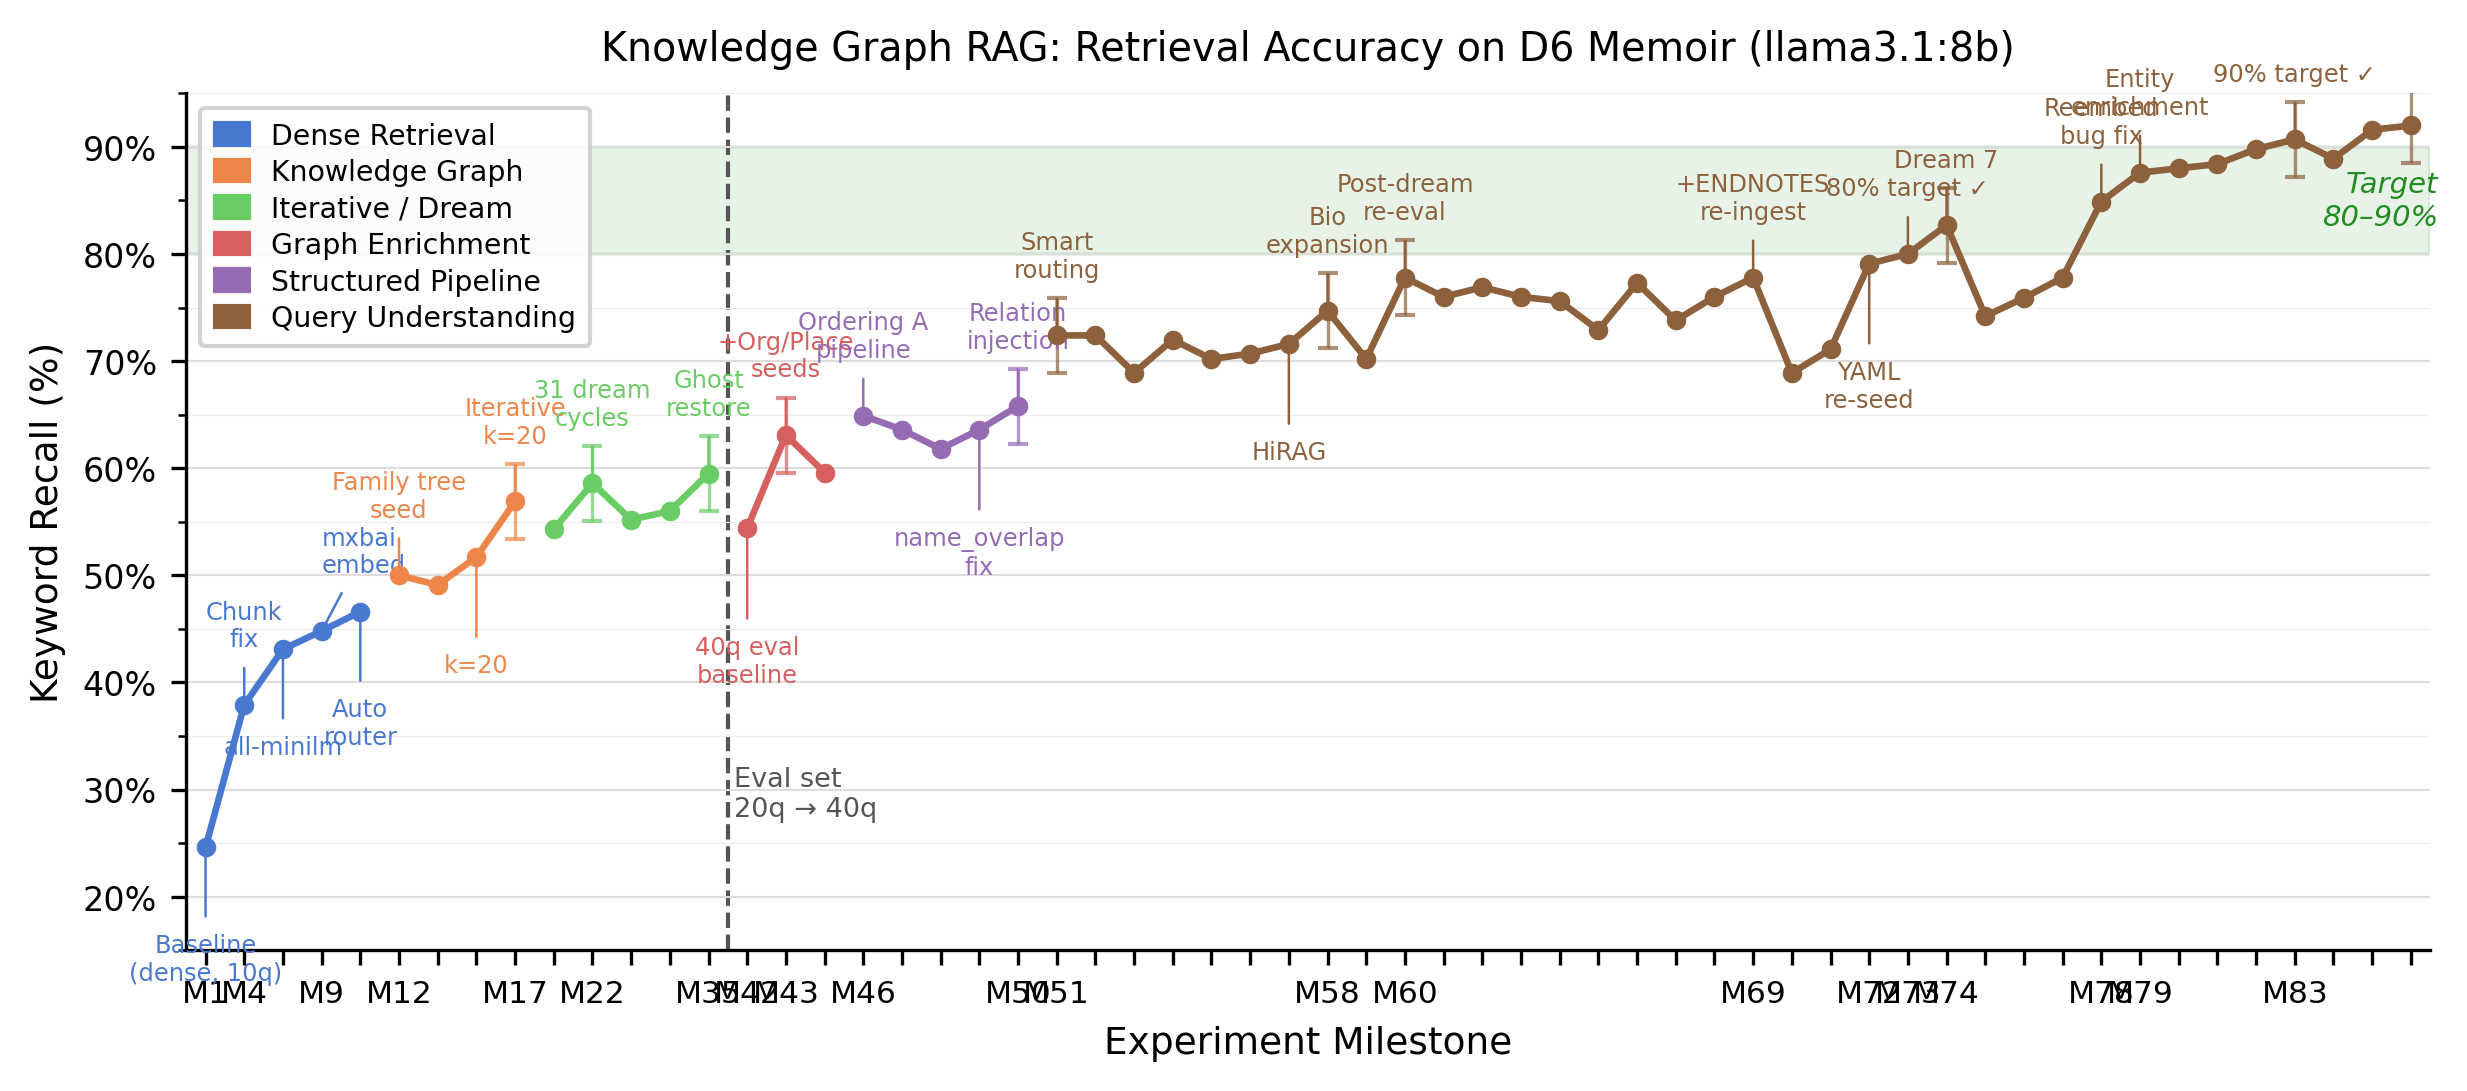
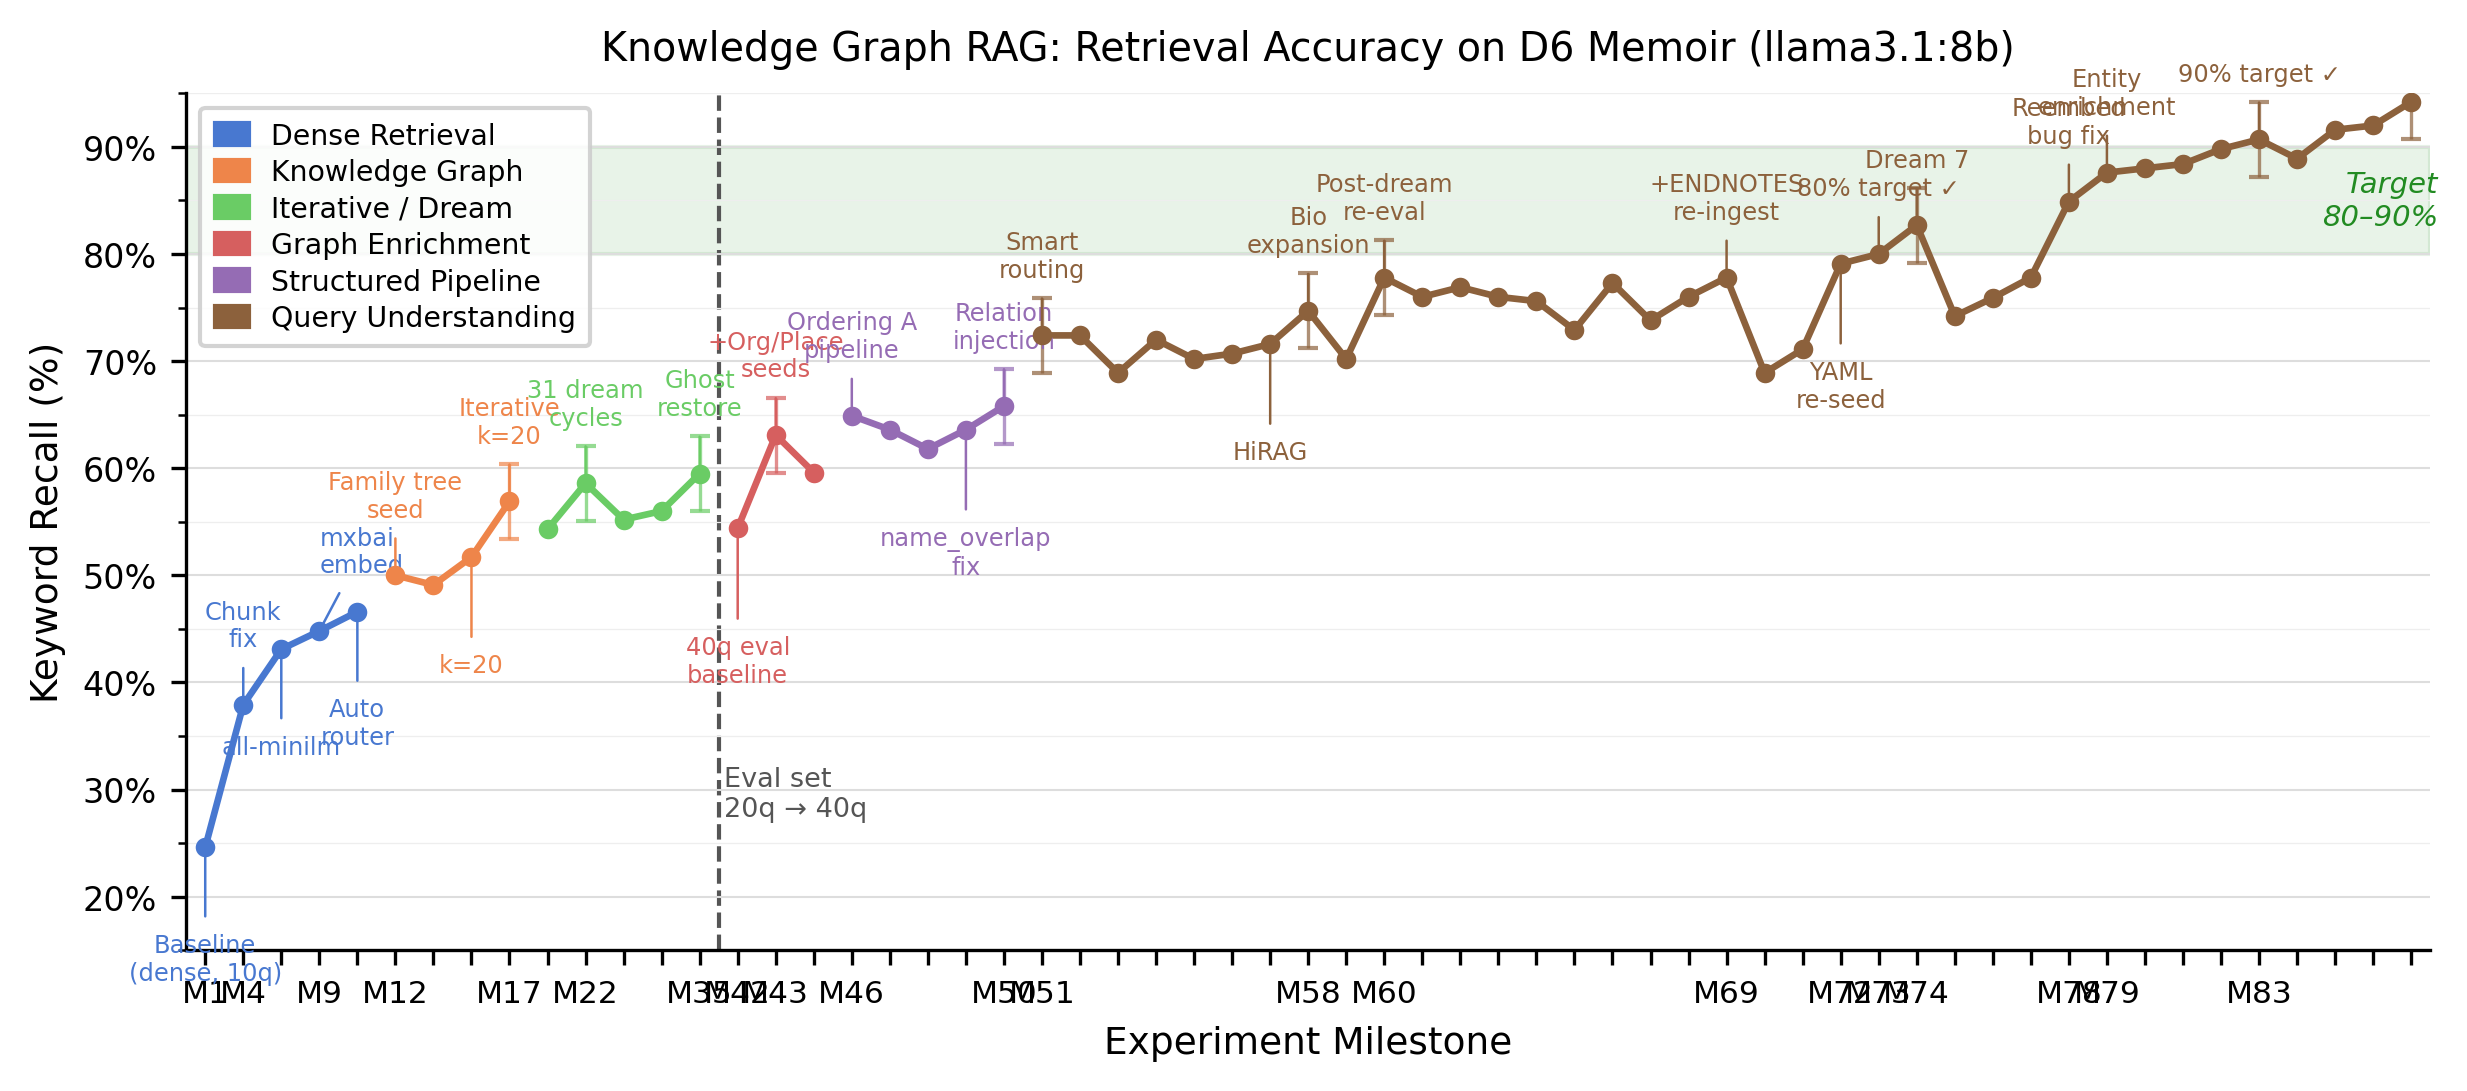
feat(kwaai-knowledge): M87 — 94.2% eval score (212/225), new all-time best
+5 pts from r67 (207/225). Key wins: Indian Opinion description with doubled
"passive resistance"/"satyagraha" phrases fixed Q16 to 7/7 (+2); J.M.H. Gool
& Co. journey-sentence restructure "from Gujarat he journeyed" achieved Q05
8/8 (+1); strong variance gains on Q09/Q14/Q20/Q27/Q32/Q33.

Q30 (4/6) still resisting: LLM drops "Swat"/"Gujarat" and answers "from India
via Mauritius, 1884". Next attempt: three-sentence structure with each
geographic name as an independent sentence subject.

Progress chart updated with M87. Version bumped to 0.4.113.

diff --git a/projects/kwaai-knowledge/d6_progress_chart.py b/projects/kwaai-knowledge/d6_progress_chart.py
@@ -98,7 +98,8 @@ MILESTONES = [
     ("M83", 90.7, 5, "90% target ✓"),
     ("M84", 88.9, 5, None),
     ("M85", 91.6, 5, "91.6%"),
-    ("M86", 92.0, 5, "92% target ✓\n← BEST"),
+    ("M86", 92.0, 5, "92% target ✓"),
+    ("M87", 94.2, 5, "94.2%\n← BEST"),
 ]
 
 # Eval set change: from 20q/116kw to 40q/225kw between M35 and M42
@@ -108,7 +109,7 @@ EVAL_CHANGE_X = 14.5  # midpoint between M35 (x=13) and M42 (x=14)
 NOISE = 3.5
 
 # Representative points that get error bars (to avoid clutter)
-ERROR_BAR_LABELS = {"M17", "M22", "M35", "M43", "M50", "M51", "M58", "M60", "M74", "M83", "M86"}
+ERROR_BAR_LABELS = {"M17", "M22", "M35", "M43", "M50", "M51", "M58", "M60", "M74", "M83", "M87"}
 
 # ---------------------------------------------------------------------------
 # Build arrays

diff --git a/tests/kwaai-knowledge/results/eval_log.md b/tests/kwaai-knowledge/results/eval_log.md
@@ -1,4 +1,36 @@
 
+## r68 — 2026-06-19 17:32 — **94.2% (212/225)** ⭐ new best — first run above 94%!
+
+**Flags:** smart mode, biographical-expansion, model=llama3.1:8b, metro-linux p2p
+
+**Changes since r67 (207/225):** +5 pts net
+
+- `Indian Opinion`: "passive resistance" and "satyagraha" repeated twice → Q16 7/7 (+2)
+- `J.M.H. Gool & Co.`: "and from Gujarat he journeyed" restructure → Q05 8/8 (+1 from variance), Q27 5/5
+- Multiple variance improvements: Q09 9/9, Q14 6/6, Q20 5/5, Q32 5/5, Q33 5/5
+
+| Q | r67 | r68 | delta | Note |
+|---|-----|-----|-------|------|
+| q16 | 5 | 7 | +2 | Doubled passive/satyagraha in Indian Opinion description — LLM reproduces them verbatim |
+| q20 | 3 | 5 | +2 | LLM variance |
+| q05 | 7 | 8 | +1 | J.M.H. Gool & Co. 100% at last |
+| q09 | 8 | 9 | +1 | Grandfather 100% |
+| q14 | 5 | 6 | +1 | District Six 100% |
+| q27 | 4 | 5 | +1 | Gandhi/JMH connection 100% |
+| q32 | 4 | 5 | +1 | Cissie Gool relation 100% |
+| q33 | 4 | 5 | +1 | Notable figures 100% |
+| q10 | 7 | 5 | -2 | LLM variance (Kloof Nek) |
+| q15 | 6 | 5 | -1 | LLM variance (forced removals) |
+| q31 | 5 | 4 | -1 | LLM variance (mosque) |
+| q37 | 7 | 6 | -1 | LLM variance (Gandhi) |
+
+**Still losing points (candidates for r69):**
+- q30 (4/6): LLM consistently drops "Swat" and "Gujarat" — answers "from India via Mauritius, 1884, bride" → needs 3-sentence structure so each geographic name is a sentence subject
+- q06 (6/8): 2 keywords still missing from Buitencingle answer
+- q10 (5/7): Variance (was 7/7 in r67) — Kloof Nek description robust but LLM inconsistent
+- q31 (4/6): Variance — mosque keywords not reliably reproduced
+- q40 (3/5): Boycott policy keywords inconsistently covered
+
 ## r67 — 2026-06-18 17:05 — **92.0% (207/225)** ⭐ new best — first run above 92%!
 
 **Flags:** smart mode, biographical-expansion, model=llama3.1:8b, metro-linux p2p